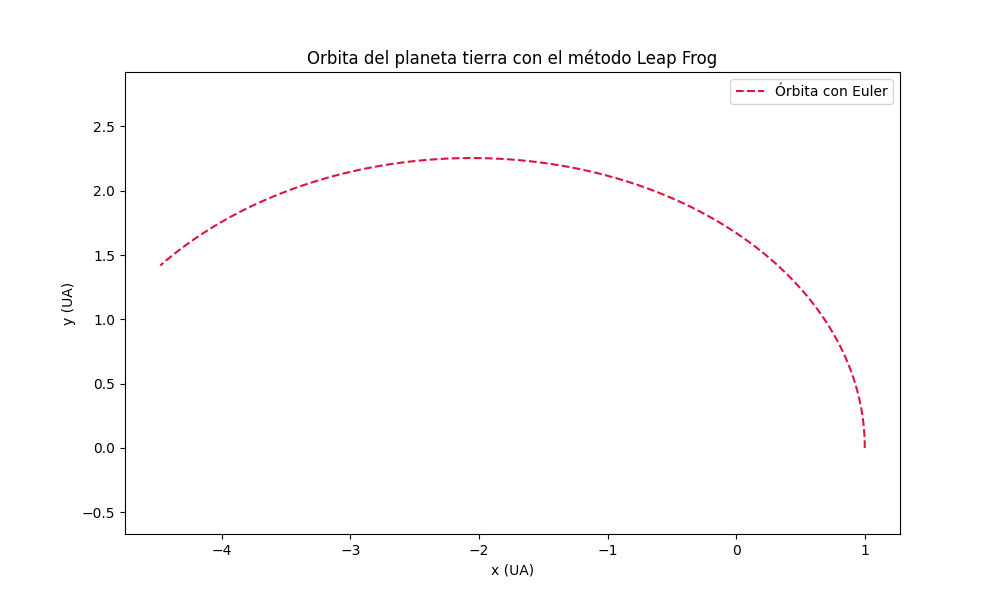
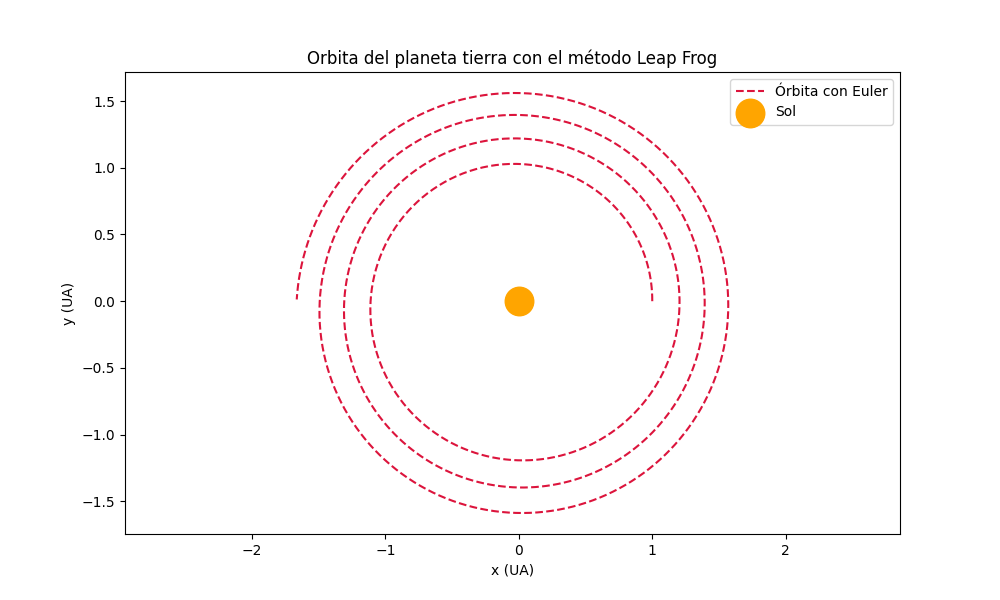
Added the second case in cpp

diff --git a/S6/S6CASA/ParraCristian_S6CASA_ODE2_PLANETAS.cpp b/S6/S6CASA/ParraCristian_S6CASA_ODE2_PLANETAS.cpp
@@ -36,43 +36,81 @@ double Leap_Frog_U(double uu, double vv, double hh){
     return uu_n1;
 }
 
-double Leap_Frog_V(double uu_nn12, double vv, double GG,double hh){
+double Leap_Frog_V(double uu_nn12, double ww_nn12, double vv, double GG,double hh){
     // uu : El valor de la función en el paso n actual
     // vv : El valor de la velocidad en el paso n+1/2 actual
     // hh : El tamaño de paso inicialmente definido
-    double vv_n32 = vv + hh*Orbita_x(uu_nn12, vv, GG);   // vv_n+3/2
+    double vv_n32 = vv + hh*Orbita_x(uu_nn12, ww_nn12, GG);   // vv_n+3/2
     return vv_n32;
 }
 
 int main(){
-    double M = 1.988475e30;     // kg
-    double AU = 1.49597870700e11; // m
-    double days = 86400;        //s
-    double G = 6.67e-8;         // m^3 kg^-1 s^-2
-    double G_M0 = G*M*(1/std::pow(AU,3))*(days*days);       // UA^3 M0 days^-2
+    double M = 1.988475e30;         // kg | Masa solar (=1)
+    double Mt =  5.9742e24/M;       // kg | Masa de la tierra
+    double AU = 1.49597870700e11;   // m  | Unidades Astronómicas (=1)
+    double year = 31557600;         //s   | Años (=1)
+    double G = 6.67e-11;            // m^3 kg^-1 s^-2 | Constante de gravitación
+    double G_0 = G*M*(1/std::pow(AU,3))*(year*year); // UA^3 M0 year^-2
 
-    const int N = 1000;
-    double h = 0.02;
+    // Condiciones de paso y cantidad de pasos
+    const int N = 2000;
+    double h = 1.0/365.25;
 
+    // Caso 1 | Sol estático:
+    // Arrays para el método de Euler
     std::array<double, N> x_Euler;
     std::array<double, N> y_Euler;
     std::array<double, N> vx_Euler;
     std::array<double, N> vy_Euler;
 
+    // Arrays para el método de Euler
     std::array<double, N> x_LF;
     std::array<double, N> y_LF;
     std::array<double, N> vx_LF;
     std::array<double, N> vy_LF;
 
+    // Caso 2 | Sol en movimiento:
+    // Arrays para el método de Euler
+    std::array<double, N> sol_x_Euler;
+    std::array<double, N> sol_y_Euler;
+    std::array<double, N> sol_vx_Euler;
+    std::array<double, N> sol_vy_Euler;
+
+    std::array<double, N> tierra_x_Euler;
+    std::array<double, N> tierra_y_Euler;
+    std::array<double, N> tierra_vx_Euler;
+    std::array<double, N> tierra_vy_Euler;
+
+    // Arrays para el método de Euler
+    std::array<double, N> sol_x_LF;
+    std::array<double, N> sol_y_LF;
+    std::array<double, N> sol_vx_LF;
+    std::array<double, N> sol_vy_LF;
+
+    std::array<double, N> tierra_x_LF;
+    std::array<double, N> tierra_y_LF;
+    std::array<double, N> tierra_vx_LF;
+    std::array<double, N> tierra_vy_LF;
+
     std::array<double, N> t;
+    
+    // El caso 3 creo que toca con clases como dijo la profe,
+    // lastimosamente no puedo dedicarle más tiempo al código.
+    // Y la decisión que tomé para el caso 2 expandió la longitud
+    // del código de una forma antinatural, intentaré regresar a este
+    // código para mejorarlo.
 
     // Se escogen las condiciones iniciales
-    double x0 = 1;
-    double y0 = 0;
-    double vx0 = 0.0;
-    double vy0 = 0.7;
+    double x0 = 1;  // UA
+    double y0 = 0;  // UA
+    double vx0 = 0.0;       // UA/año
+    double vy0 = 2*M_PI;    // UA/año (suponiendo órbita circular)
+
+    double vy_t0 = vy0*M/(M+Mt);    // UA/año | Velocidad de la tierra
+    double vy_s0 = -vy0*Mt/(M+Mt);  // UA/año | Velocidad del sol
 
     t[0] = 0;
+    // Caso 1:
     x_Euler[0] = x0;
     y_Euler[0] = y0;
     vx_Euler[0] = vx0;
@@ -80,37 +118,88 @@ int main(){
     
     x_LF[0] = x0;
     y_LF[0] = y0;
-    vx_LF[0] = vx0 + h * Orbita_x(x0, y0, G_M0)/2.0;
-    vy_LF[0] = vy0 + h * Orbita_x(y0, x0, G_M0)/2.0;
+    vx_LF[0] = vx0 + h * Orbita_x(x0, y0, G_0)/2.0;
+    vy_LF[0] = vy0 + h * Orbita_x(y0, x0, G_0)/2.0;
 
+    // Caso 2:
+    sol_x_Euler[0] = x0;
+    sol_y_Euler[0] = y0;
+    sol_vx_Euler[0] = vx0;
+    sol_vy_Euler[0] = vy_s0;
+    
+    sol_x_LF[0] = x0;
+    sol_y_LF[0] = y0;
+    sol_vx_LF[0] = vx0 + h * Orbita_x(x0, y0, G_0)/2.0;
+    sol_vy_LF[0] = vy_s0 + h * Orbita_x(y0, x0, G_0)/2.0;
 
+    tierra_x_Euler[0] = x0;
+    tierra_y_Euler[0] = y0;
+    tierra_vx_Euler[0] = vx0;
+    tierra_vy_Euler[0] = vy_t0;
+    
+    tierra_x_LF[0] = x0;
+    tierra_y_LF[0] = y0;
+    tierra_vx_LF[0] = vx0 + h * Orbita_x(x0, y0, G_0)/2.0;
+    tierra_vy_LF[0] = vy_t0 + h * Orbita_x(y0, x0, G_0)/2.0;
+    
+    // Escritura de los arrays
     for (int i = 0; i < N-1; i++){
-        t[i+1] = i/N;
+        t[i+1] = t[i] + h;
+
+        // Caso 1:
         x_Euler[i+1] = Euler_U(x_Euler[i], vx_Euler[i], h);
         y_Euler[i+1] = Euler_U(y_Euler[i], vy_Euler[i], h);
 
-        vx_Euler[i+1] = Euler_V(x_Euler[i], y_Euler[i], vx_Euler[i], G_M0, h);
-        vy_Euler[i+1] = Euler_V(y_Euler[i], x_Euler[i], vy_Euler[i], G_M0, h);
+        vx_Euler[i+1] = Euler_V(x_Euler[i], y_Euler[i], vx_Euler[i], G_0, h);
+        vy_Euler[i+1] = Euler_V(y_Euler[i], x_Euler[i], vy_Euler[i], G_0, h);
 
         x_LF[i+1] = Leap_Frog_U(x_LF[i], vx_LF[i], h);
         y_LF[i+1] = Leap_Frog_U(y_LF[i], vy_LF[i], h);
 
-        vx_LF[i+1] = Leap_Frog_V(x_LF[i+1], vx_LF[i], G_M0, h);
-        vy_LF[i+1] = Leap_Frog_V(y_LF[i+1], vy_LF[i], G_M0, h);
+        vx_LF[i+1] = Leap_Frog_V(x_LF[i+1], y_LF[i+1], vx_LF[i], G_0, h);
+        vy_LF[i+1] = Leap_Frog_V(y_LF[i+1], x_LF[i+1], vy_LF[i], G_0, h);
+
+        // Caso 2:
+        sol_x_Euler[i+1] = Euler_U(sol_x_Euler[i], sol_vx_Euler[i], h);
+        sol_y_Euler[i+1] = Euler_U(sol_y_Euler[i], sol_vy_Euler[i], h);
+        tierra_x_Euler[i+1] = Euler_U(tierra_x_Euler[i], tierra_vx_Euler[i], h);
+        tierra_y_Euler[i+1] = Euler_U(tierra_y_Euler[i], tierra_vy_Euler[i], h);
+
+        sol_vx_Euler[i+1] = Euler_V(sol_x_Euler[i], sol_y_Euler[i], sol_vx_Euler[i], G_0, h);
+        sol_vy_Euler[i+1] = Euler_V(sol_y_Euler[i], sol_x_Euler[i], sol_vy_Euler[i], G_0, h);
+        tierra_vx_Euler[i+1] = Euler_V(tierra_x_Euler[i], tierra_y_Euler[i], tierra_vx_Euler[i], G_0, h);
+        tierra_vy_Euler[i+1] = Euler_V(tierra_y_Euler[i], tierra_x_Euler[i], tierra_vy_Euler[i], G_0, h);
+
+        sol_x_LF[i+1] = Leap_Frog_U(sol_x_LF[i], sol_vx_LF[i], h);
+        sol_y_LF[i+1] = Leap_Frog_U(sol_y_LF[i], sol_vy_LF[i], h);
+        tierra_x_LF[i+1] = Leap_Frog_U(tierra_x_LF[i], tierra_vx_LF[i], h);
+        tierra_y_LF[i+1] = Leap_Frog_U(tierra_y_LF[i], tierra_vy_LF[i], h);
+
+        sol_vx_LF[i+1] = Leap_Frog_V(sol_x_LF[i+1], sol_y_LF[i+1], sol_vx_LF[i], G_0, h);
+        sol_vy_LF[i+1] = Leap_Frog_V(sol_y_LF[i+1], sol_x_LF[i+1], sol_vy_LF[i], G_0, h);
+        tierra_vx_LF[i+1] = Leap_Frog_V(tierra_x_LF[i+1], tierra_y_LF[i+1], tierra_vx_LF[i], G_0, h);
+        tierra_vy_LF[i+1] = Leap_Frog_V(tierra_y_LF[i+1], tierra_x_LF[i+1], tierra_vy_LF[i], G_0, h);
     }
 
     // Se guardan los archivos en Planetas.dat
-    // El orden de las columnas es: tiempo , Euler x, Euler y, LeapFrog x, LeapFrog y
+    // El orden de las columnas es: 
+    // Caso 1 | tiempo , Euler x, Euler y, LeapFrog x, LeapFrog y.
+    // Caso 2 | Euler x sol, Euler y sol, Euler x tierra, Euler y tierra
+    // Leapfrog x sol, Leapfrog y sol, Leapfrog x tierra, Leapfrog y tierra.
+
     std::ofstream outfile;
     outfile.open("Planetas.dat");
     std::cout << ">>>Guardando los valores en 'Planetas.dat'" << std::endl;
 
     for(int p=0; p<(N);p++){
-    outfile << t[p] << " , " << x_Euler[p] << " , " << y_Euler[p] << " , " 
-    << x_LF[p] << " , " << y_LF[p]<< "\n";
+    outfile << t[p] << " , " 
+    << x_Euler[p] << " , " << y_Euler[p] << " , " 
+    << x_LF[p] << " , " << y_LF[p]<< " , "
+    << sol_x_Euler[p] << " , " << sol_y_Euler[p] << " , " 
+    << tierra_x_Euler[p] << " , " << tierra_y_Euler[p] << " , "
+    << sol_x_LF[p] << " , " << sol_y_LF[p]<< " , "
+    << tierra_x_LF[p] << " , " << tierra_y_LF[p]<< "\n";
     }
 
     outfile.close();
-
-
 }

diff --git a/S6/S6CASA/PLOTS_CristianParra_S6CASA_ODE2_PLANETAS.py b/S6/S6CASA/PLOTS_CristianParra_S6CASA_ODE2_PLANETAS.py
@@ -20,6 +20,7 @@ fig1, ax1 = plt.subplots(figsize=(10,6))
 
 # Gráfica del resorte
 ax0.plot(x_Euler, y_Euler, label="Órbita con Euler", ls = "--", color = "crimson")
+ax0.scatter(0, 0, s = 422, color = "orange", label = "Sol")
 ax0.axis("equal")
 ax0.set_xlabel("x (UA)")
 ax0.set_ylabel("y (UA)")
@@ -29,6 +30,7 @@ fig0.savefig("PLOTS_CristianParra_S6CASA_ODE2_Planetas_E.png")
 
 # Gráfica del resorte amortiguado
 ax1.plot(x_LeapFrog, y_LeapFrog, label="Órbita con Leap Frog", ls = ":", color = "indigo")
+ax1.scatter(0, 0, s = 422, color = "orange", label = "Sol")
 ax1.axis("equal")
 ax1.set_xlabel("x (UA)")
 ax1.set_ylabel("y (UA)")
